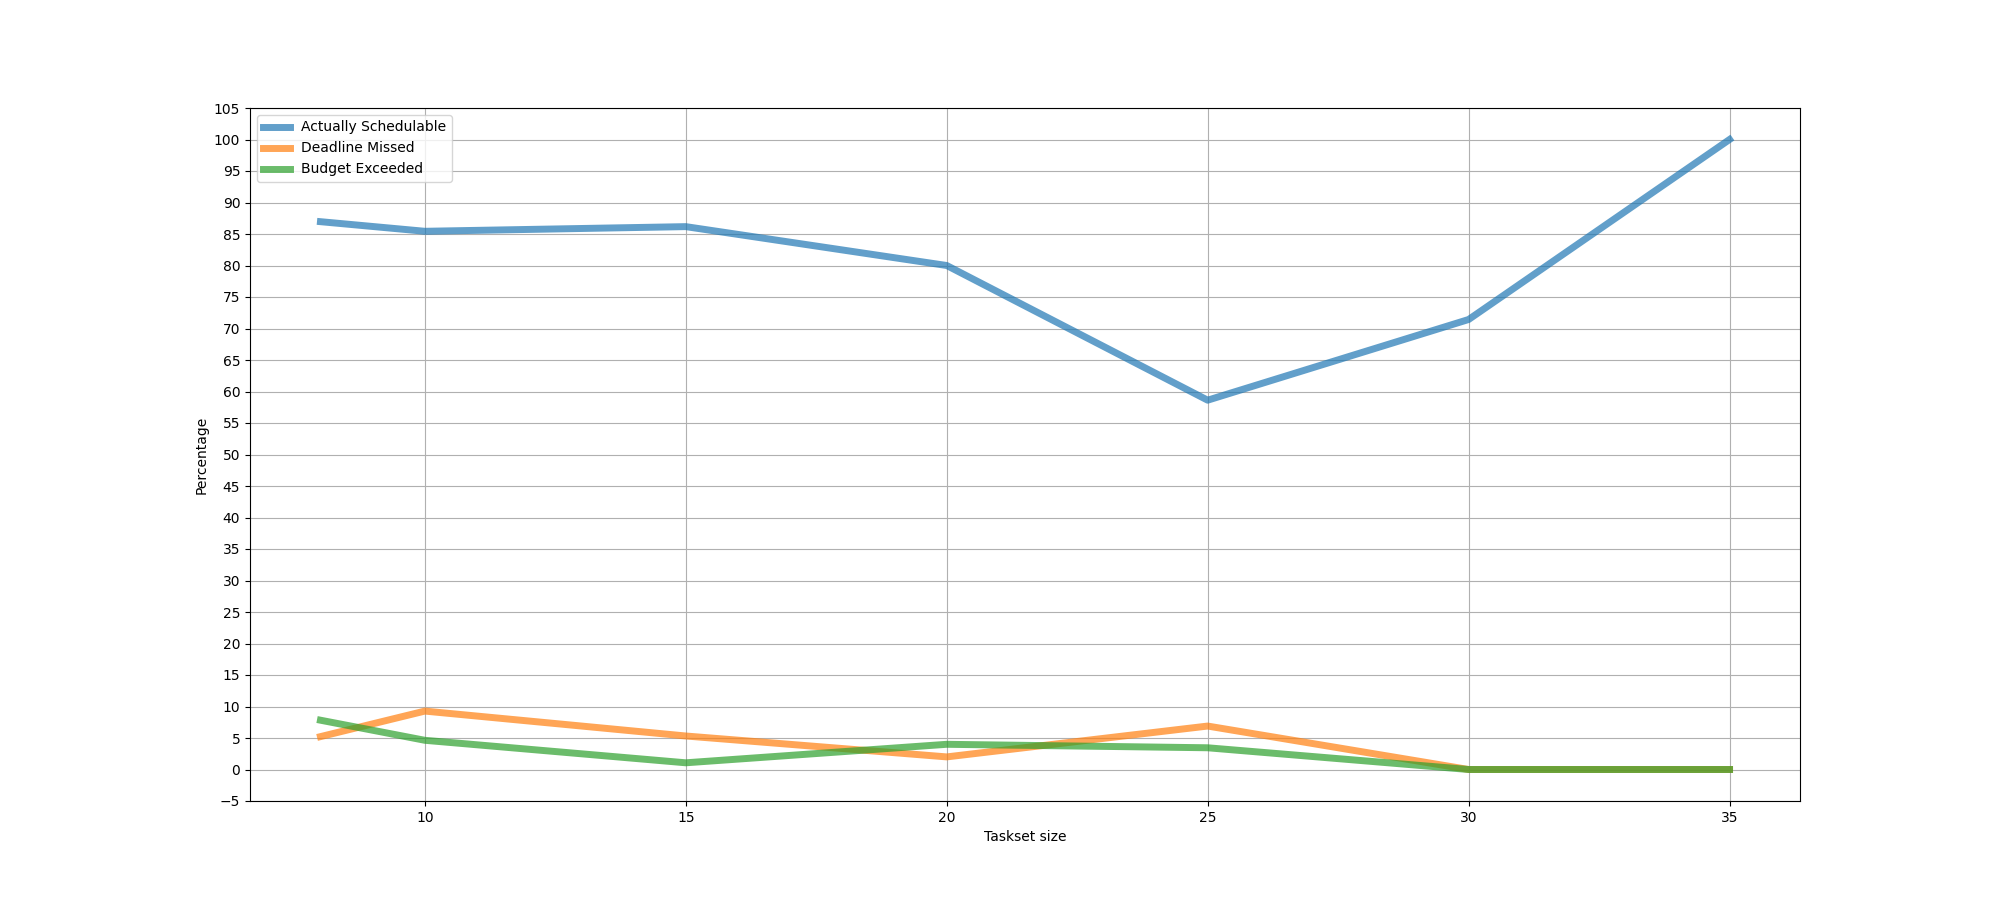
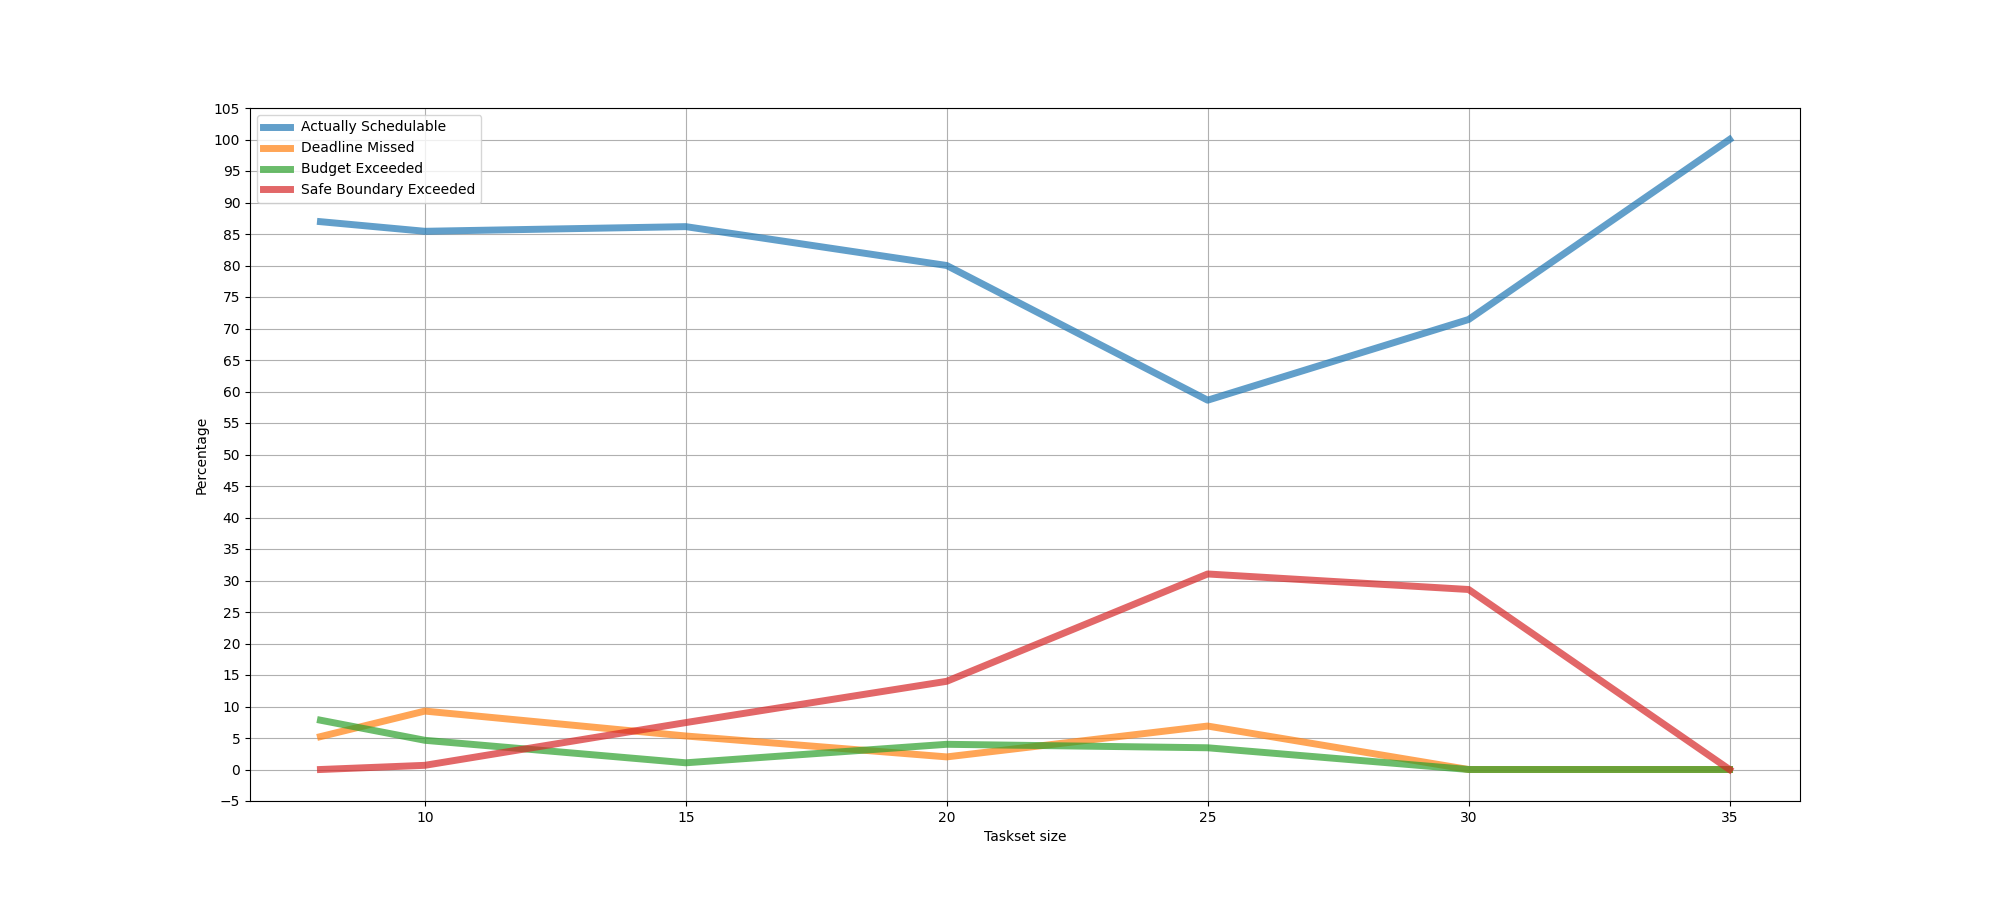
Add SBE function on e4

diff --git a/analysis/simulation_vs_real_execution.py b/analysis/simulation_vs_real_execution.py
@@ -549,7 +549,11 @@ def produce_results_experiment(experiment_id):
             overall_results['Actually Schedulable']['values'].append ([float(level), perc])
             overall_results['Deadline Missed']['values'].append ([float(level), perc_NS])
             overall_results['Budget Exceeded']['values'].append ([float(level), perc_BE])
-            # overall_results['Safe Boundary Exceeded']['values'].append ([float(level), perc_SBE])
+            if experiment_id == 4:
+                if 'Safe Boundary Exceeded' not in overall_results:
+                    overall_results['Safe Boundary Exceeded'] = {'values': [], 'legend': 'SBE'}
+
+                overall_results['Safe Boundary Exceeded']['values'].append ([float(level), perc_SBE])
             # overall_results['DM and BE']['values'].append ([float(level), perc_BE_and_NS])
             results_to_plot[approach].append([float(level), perc])
 
